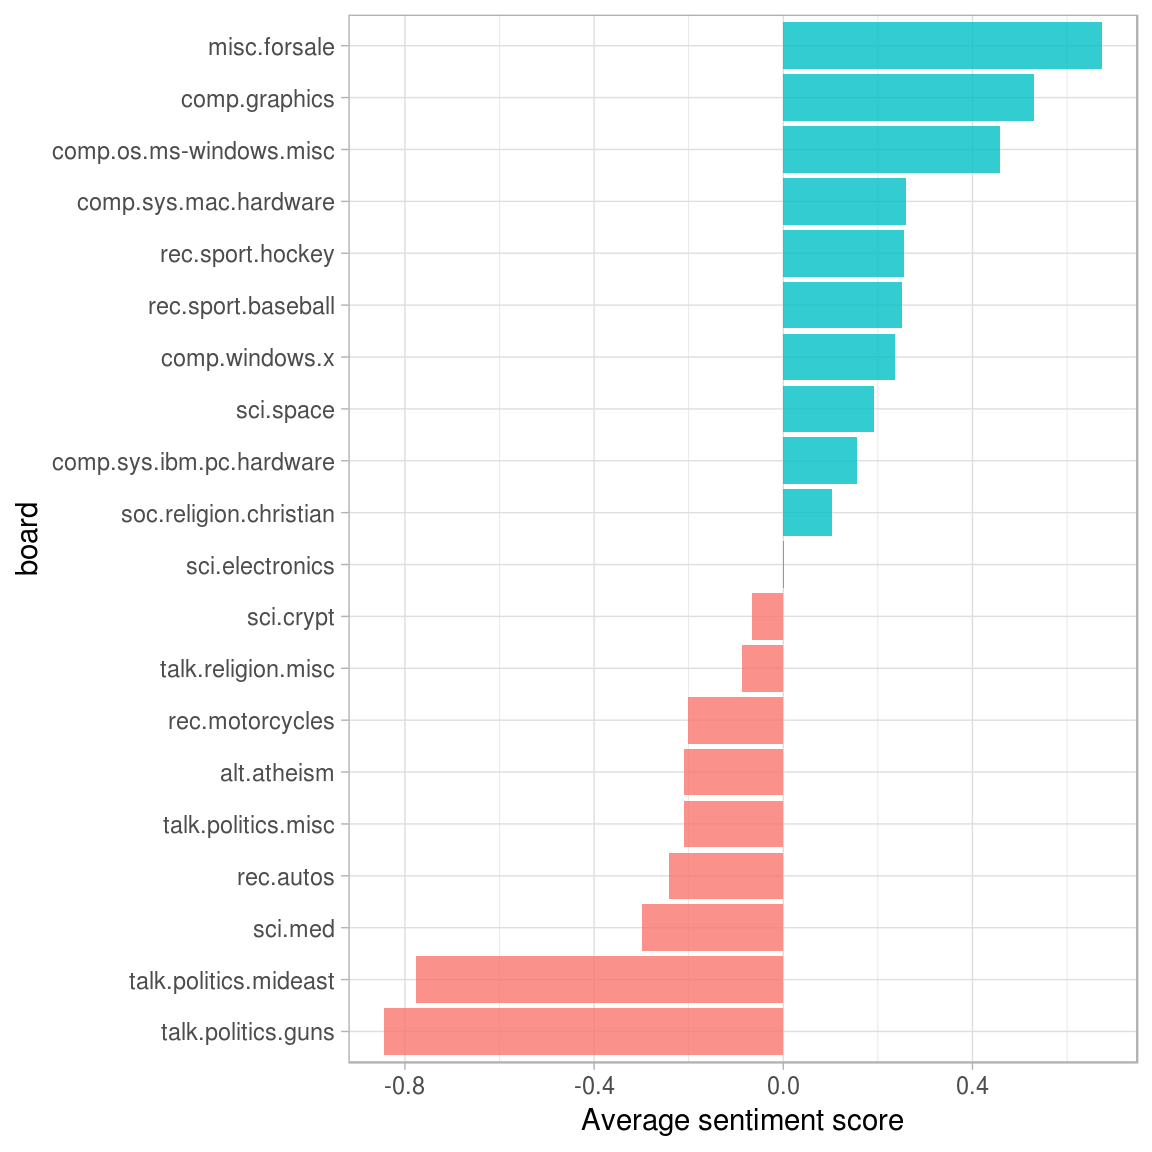
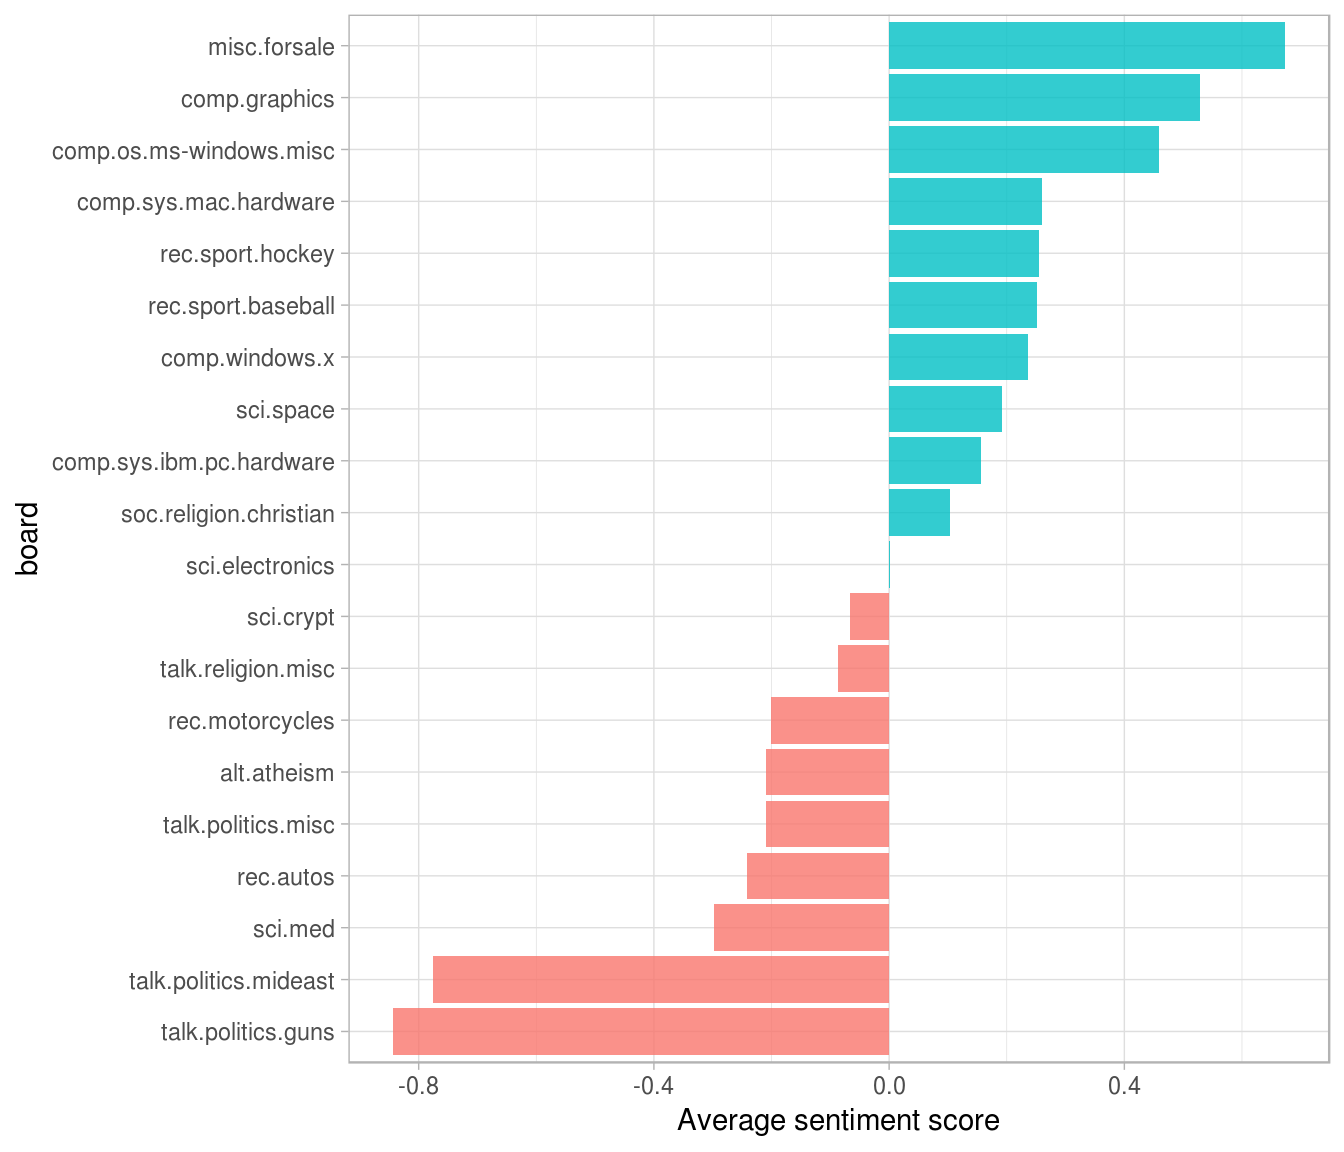
Updating book (112)

diff --git a/usenet.html b/usenet.html
@@ -354,7 +354,7 @@ board_sentiments %&gt;%
 <span class="st">  </span><span class="kw">geom_bar</span>(<span class="dt">alpha =</span> <span class="fl">0.8</span>, <span class="dt">stat =</span> <span class="st">&quot;identity&quot;</span>, <span class="dt">show.legend =</span> <span class="ot">FALSE</span>) +
 <span class="st">  </span><span class="kw">coord_flip</span>() +
 <span class="st">  </span><span class="kw">ylab</span>(<span class="st">&quot;Average sentiment score&quot;</span>)</code></pre></div>
-<p><img src="10-usenet_files/figure-html/board_sentiments-1.png" width="576" /></p>
+<p><img src="10-usenet_files/figure-html/board_sentiments-1.png" width="672" /></p>
 </div>
 <div id="sentiment-analysis-by-word" class="section level2">
 <h2><span class="header-section-number">10.4</span> Sentiment analysis by word</h2>

diff --git a/10-usenet.md b/10-usenet.md
@@ -216,7 +216,7 @@ board_sentiments %>%
   ylab("Average sentiment score")
 ```
 
-<img src="10-usenet_files/figure-html/board_sentiments-1.png" width="576" />
+<img src="10-usenet_files/figure-html/board_sentiments-1.png" width="672" />
 
 ## Sentiment analysis by word
 
